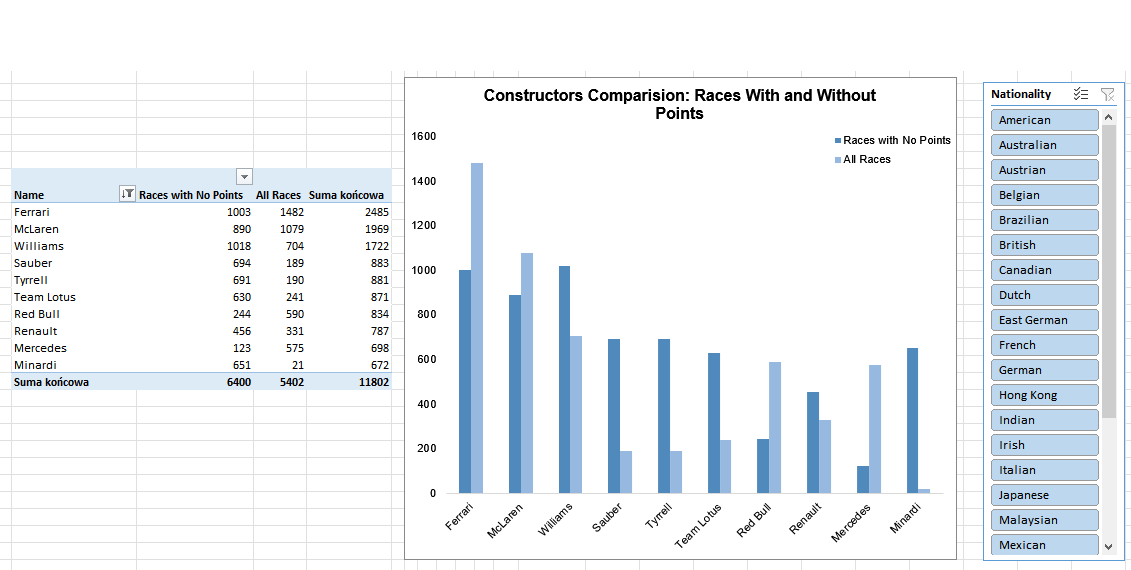
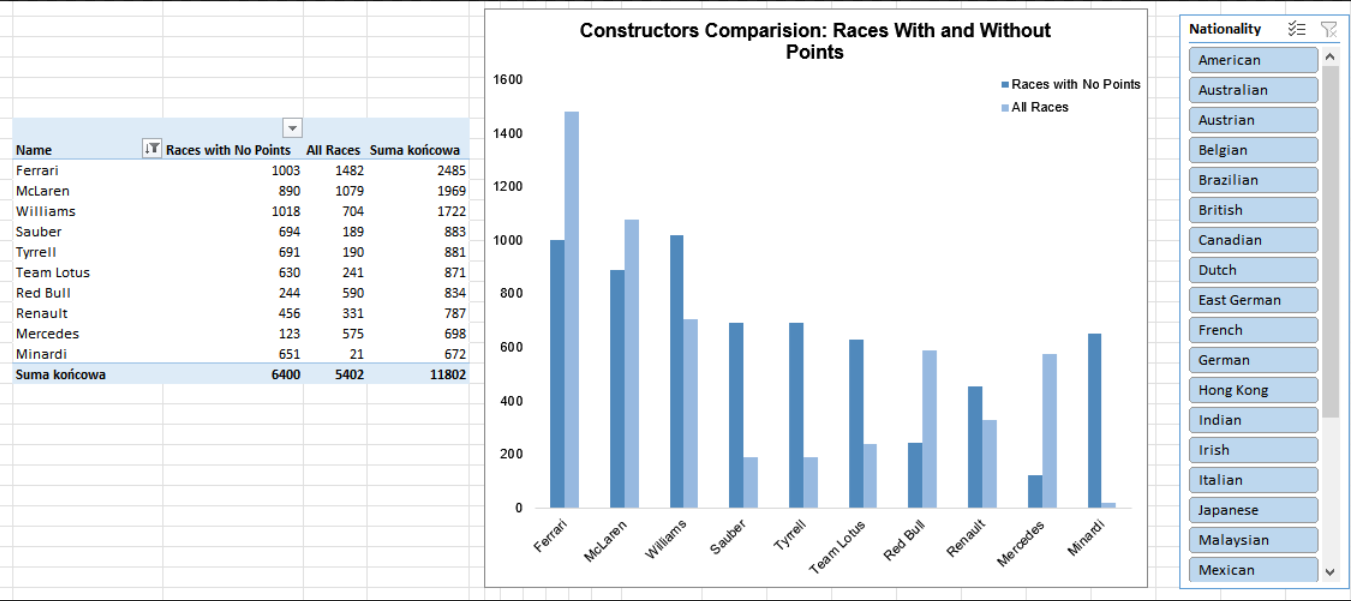
final commit

Changed region(s): [[0.0, 0.0, 1.0, 1.0]]

diff --git a/README.md b/README.md
@@ -57,6 +57,7 @@ The chart can be filtered by race track.
 ### Constructors Comparision: Races With and Without Points
 
 **Visualization:**
+
 ![Chart3](images/charts/constructors.png)
 
 **Insights:**
@@ -86,20 +87,20 @@ For instance, D. Ricciardo finished higher than his grid position only three tim
 ## 💪 Skills Used
 
 1. **Power Query**
-   - 1.1 Merging Queries
-   - 1.2 Adding Conditional Columns
-   - 1.3 Removing and Duplicating Columns
-   - 1.4 Group By
-   - 1.5 Changing Data Types
-   - 1.6 Data transformations within rows
+   - Merging Queries
+   - Adding Conditional Columns
+   - Removing and Duplicating Columns
+   - Group By
+   - Changing Data Types
+   - Data transformations within rows
 2. **Power Pivot**
-   - 2.1 Data Modeling (Relationships)
-   - 2.2 Measures
-   - 2.3 DAX Language
+   - Data Modeling (Relationships)
+   - Measures
+   - DAX Language
 3. **Other Skills:**
-   - 3.1 PivotTables
-   - 3.2 PivotCharts
-   - 3.3 Slicers
+   - PivotTables
+   - PivotCharts
+   - Slicers
 
 ## 🔗 Data Source
 [Kaggle Formula 1 World Championship (1950 - 2024)](https://www.kaggle.com/datasets/rohanrao/formula-1-world-championship-1950-2020) 
